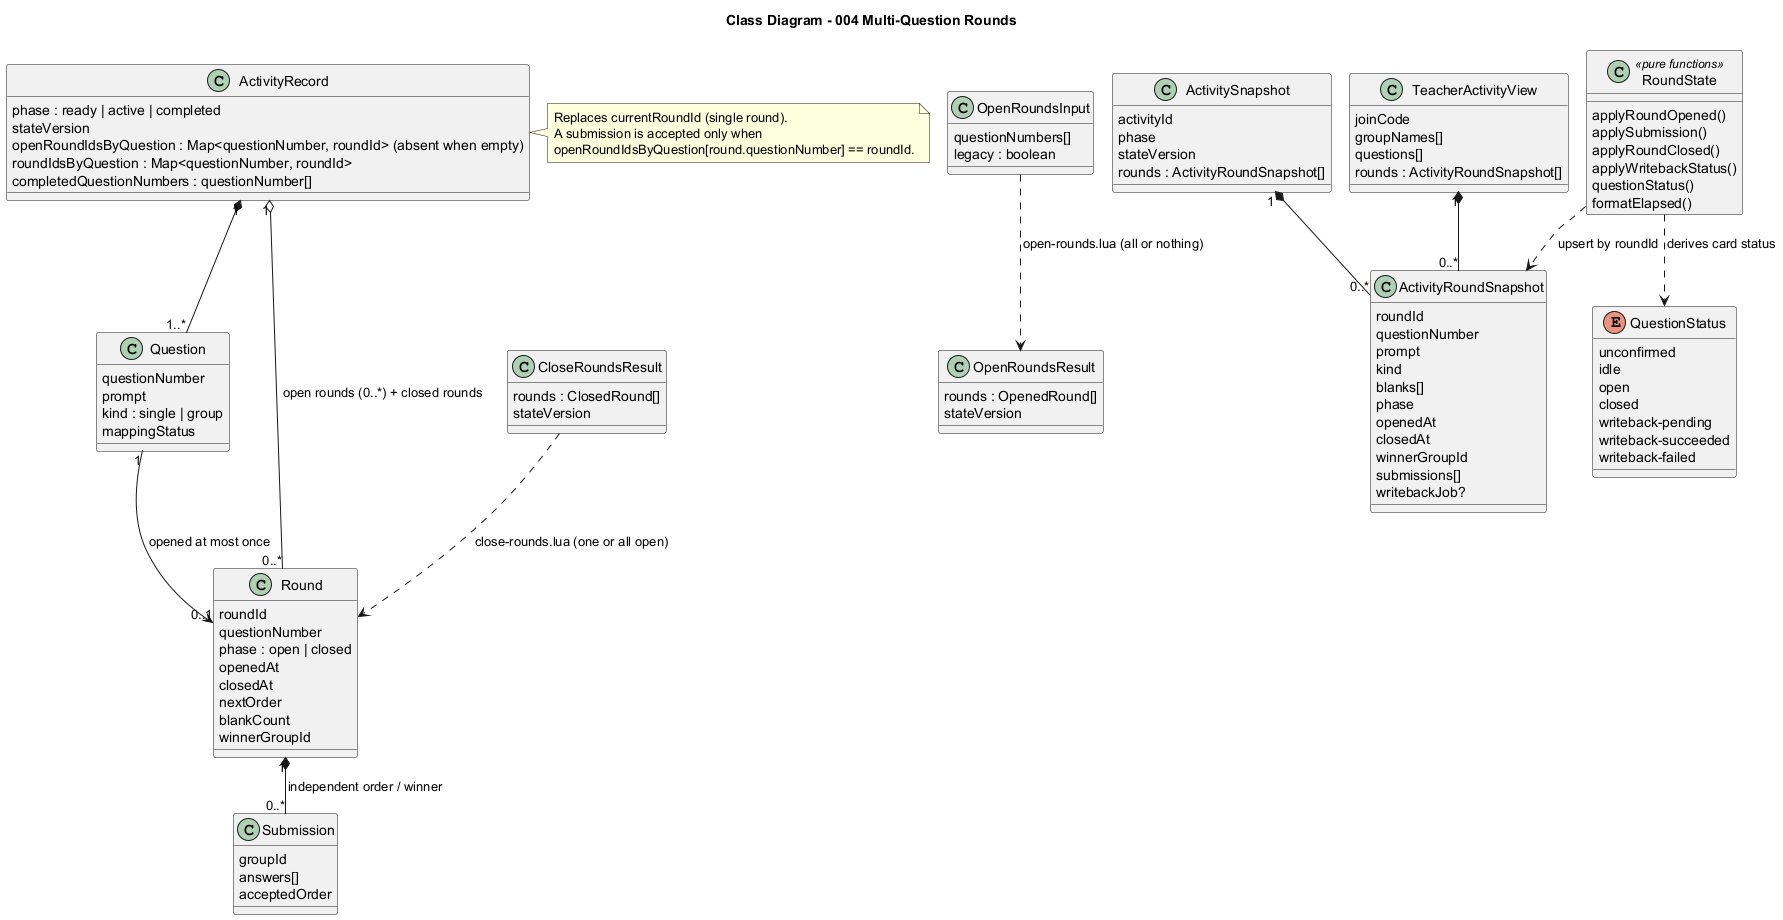
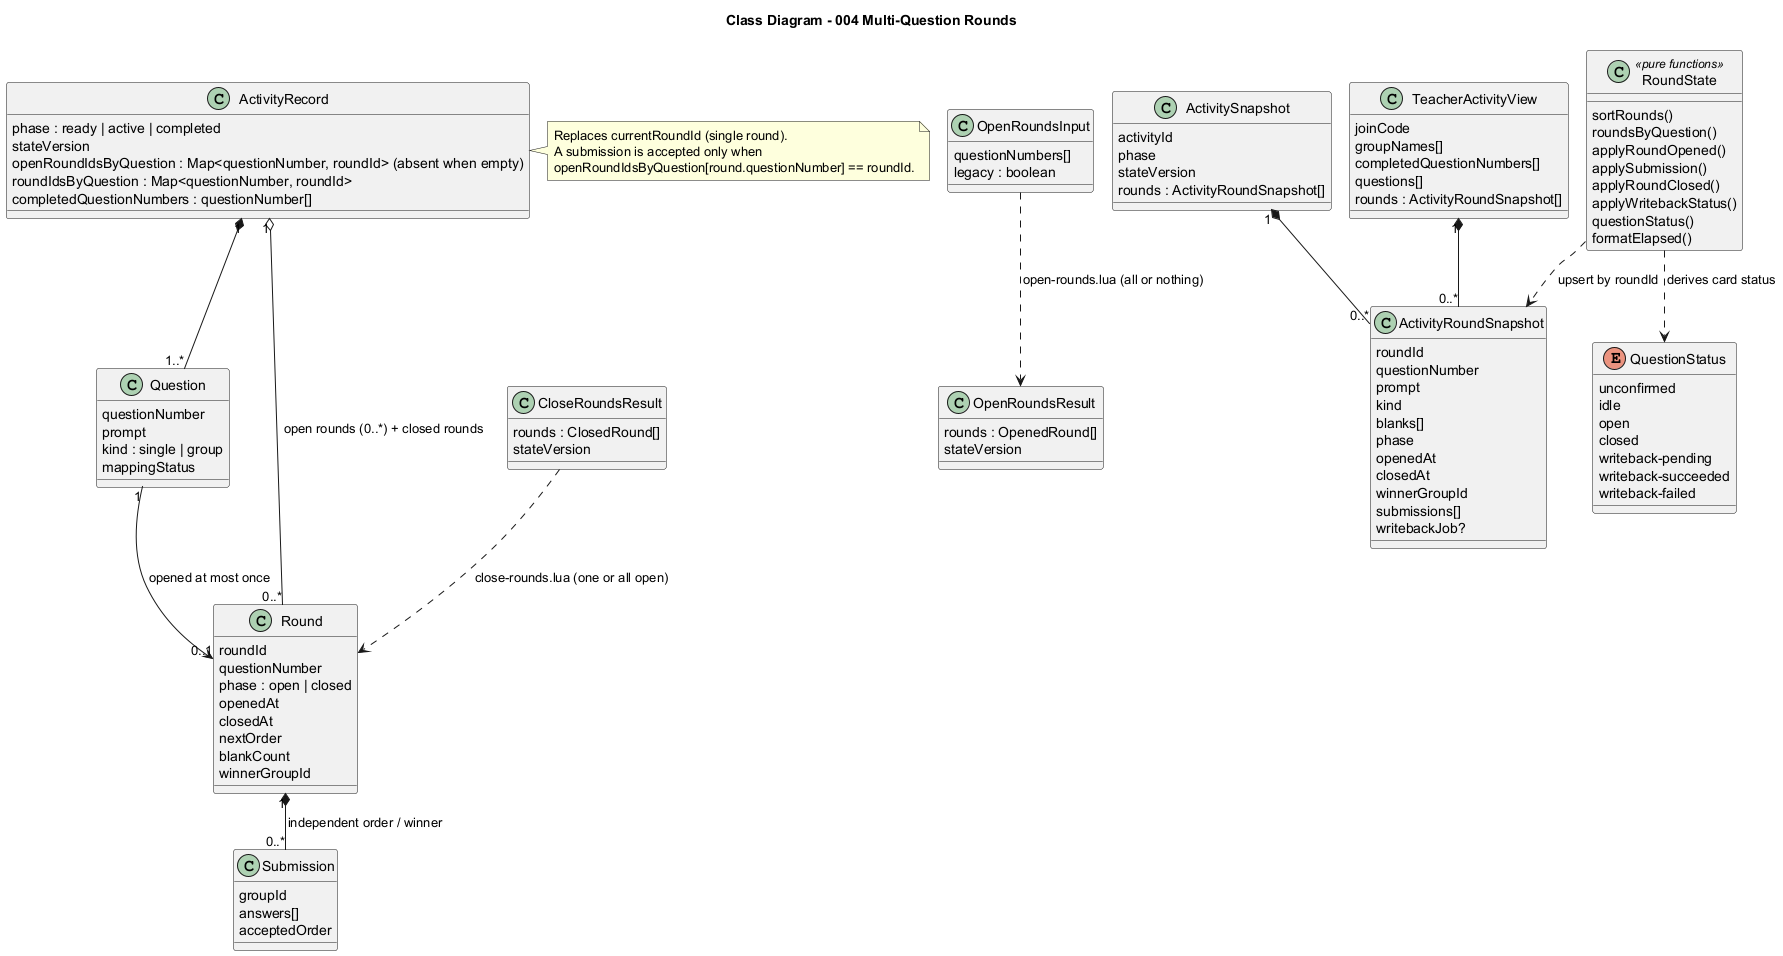
docs(004): record diagram alignment and verification results
Class diagram now lists every exported round-state helper and the
completedQuestionNumbers field of the teacher view; quickstart records
the code-to-diagram check (T030) and automated results (T029); all
tasks are marked done.

diff --git a/main/specs/004-multi-question-rounds/tasks.md b/main/specs/004-multi-question-rounds/tasks.md
@@ -17,17 +17,17 @@
 
 ## Phase 1: Setup
 
-- [ ] T001 Point SpecKit at the feature (`.specify/feature.json` → `specs/004-multi-question-rounds`), write spec/checklist/plan/research/data-model/contracts/quickstart, create `diagrams/004-component|class|sequence.puml`, update `diagrams/class.puml` and `diagrams/sequence.puml`, render all to PNG
+- [X] T001 Point SpecKit at the feature (`.specify/feature.json` → `specs/004-multi-question-rounds`), write spec/checklist/plan/research/data-model/contracts/quickstart, create `diagrams/004-component|class|sequence.puml`, update `diagrams/class.puml` and `diagrams/sequence.puml`, render all to PNG
 
 ---
 
 ## Phase 2: Foundational (blocking all stories)
 
-- [ ] T002 [P] Unit tests for the pure round-state module in `tests/unit/activities/round-state.test.ts` (open adds/sorts and is idempotent, submission upsert per round only, unknown round ignored, close sets final results, writeback status, `questionStatus` for every state, `formatElapsed`)
-- [ ] T003 [P] Unit tests for the open request schema in `tests/unit/validation/round-open-schema.test.ts` (array form, legacy form → `legacy: true`, empty / duplicate / non-numeric rejected)
-- [ ] T004 Add `openedAt` / `closedAt` to `ActivityRoundSnapshot` and replace `currentRound` with `rounds[]` in `src/features/activities/domain/snapshot.ts`
-- [ ] T005 Implement `src/features/activities/domain/round-state.ts` (make T002 pass)
-- [ ] T006 Change `roundOpenSchema` in `src/lib/validation/schemas.ts` to accept `{ questionNumbers[] }` or legacy `{ questionNumber }` (make T003 pass)
+- [X] T002 [P] Unit tests for the pure round-state module in `tests/unit/activities/round-state.test.ts` (open adds/sorts and is idempotent, submission upsert per round only, unknown round ignored, close sets final results, writeback status, `questionStatus` for every state, `formatElapsed`)
+- [X] T003 [P] Unit tests for the open request schema in `tests/unit/validation/round-open-schema.test.ts` (array form, legacy form → `legacy: true`, empty / duplicate / non-numeric rejected)
+- [X] T004 Add `openedAt` / `closedAt` to `ActivityRoundSnapshot` and replace `currentRound` with `rounds[]` in `src/features/activities/domain/snapshot.ts`
+- [X] T005 Implement `src/features/activities/domain/round-state.ts` (make T002 pass)
+- [X] T006 Change `roundOpenSchema` in `src/lib/validation/schemas.ts` to accept `{ questionNumbers[] }` or legacy `{ questionNumber }` (make T003 pass)
 
 **Checkpoint**: shared types, reducer and validation ready.
 
@@ -41,16 +41,16 @@
 
 ### Tests for User Story 1
 
-- [ ] T007 [P] [US1] Integration tests in `tests/integration/multi-round.test.ts` (unique ids): open Q1+Q2 in one call; open Q3 while Q1/Q2 open; all-or-nothing for already-open / completed / unconfirmed / unknown / duplicated question (nothing written, error names the question); close Q1 leaves Q2/Q3 open; close-all closes every open round in one call with one `results.finalized` per round; close-all with nothing open → 409; activity `completed` only after the last question closes; leftover `currentRoundId` removed; events have contiguous `stateVersion`
-- [ ] T008 [P] [US1] Migrate `tests/integration/round-atomicity.test.ts` to unique activity ids and the new store API (`openRounds`)
-- [ ] T009 [P] [US1] Contract tests in `tests/contract/rounds.test.ts`: array body → `{ rounds }`; legacy body → legacy single-round response; invalid bodies → 422; students cannot open / close / close-all; close-all uses the teacher identity
+- [X] T007 [P] [US1] Integration tests in `tests/integration/multi-round.test.ts` (unique ids): open Q1+Q2 in one call; open Q3 while Q1/Q2 open; all-or-nothing for already-open / completed / unconfirmed / unknown / duplicated question (nothing written, error names the question); close Q1 leaves Q2/Q3 open; close-all closes every open round in one call with one `results.finalized` per round; close-all with nothing open → 409; activity `completed` only after the last question closes; leftover `currentRoundId` removed; events have contiguous `stateVersion`
+- [X] T008 [P] [US1] Migrate `tests/integration/round-atomicity.test.ts` to unique activity ids and the new store API (`openRounds`)
+- [X] T009 [P] [US1] Contract tests in `tests/contract/rounds.test.ts`: array body → `{ rounds }`; legacy body → legacy single-round response; invalid bodies → 422; students cannot open / close / close-all; close-all uses the teacher identity
 
 ### Implementation for User Story 1
 
-- [ ] T010 [US1] Replace `open-round.lua` with `src/server/redis/scripts/open-rounds.lua` (validate all, then open all; one `phase.changed` per round; maintain `openRoundIdsByQuestion` / `roundIdsByQuestion`; drop `currentRoundId`)
-- [ ] T011 [US1] Replace `close-round.lua` with `src/server/redis/scripts/close-rounds.lua` (strict / open-only modes; one `results.finalized` per round; remove from open map, delete the map when empty; completion rule)
-- [ ] T012 [US1] Update `src/server/redis/round-store.ts`: `openRounds`, `closeRounds`, `closeRound`, `closeAllOpenRounds`, error messages naming the question
-- [ ] T013 [US1] Update `src/features/activities/application/round-service.ts`, `src/app/api/activities/[activityId]/rounds/open/route.ts` (array + legacy response) and add `src/app/api/activities/[activityId]/rounds/close-all/route.ts`
+- [X] T010 [US1] Replace `open-round.lua` with `src/server/redis/scripts/open-rounds.lua` (validate all, then open all; one `phase.changed` per round; maintain `openRoundIdsByQuestion` / `roundIdsByQuestion`; drop `currentRoundId`)
+- [X] T011 [US1] Replace `close-round.lua` with `src/server/redis/scripts/close-rounds.lua` (strict / open-only modes; one `results.finalized` per round; remove from open map, delete the map when empty; completion rule)
+- [X] T012 [US1] Update `src/server/redis/round-store.ts`: `openRounds`, `closeRounds`, `closeRound`, `closeAllOpenRounds`, error messages naming the question
+- [X] T013 [US1] Update `src/features/activities/application/round-service.ts`, `src/app/api/activities/[activityId]/rounds/open/route.ts` (array + legacy response) and add `src/app/api/activities/[activityId]/rounds/close-all/route.ts`
 
 **Checkpoint**: T007–T009 pass.
 
@@ -64,16 +64,16 @@
 
 ### Tests for User Story 2
 
-- [ ] T014 [P] [US2] Add to `tests/integration/multi-round.test.ts`: two groups answering two open rounds get independent orders/winners; after Q1 closes, a Q1 submission is rejected while a Q2 submission is accepted
-- [ ] T015 [P] [US2] Update `tests/integration/activity-events.test.ts`: snapshot `rounds[]` with one open and one closed round — student sees only own answer in the open round and all answers in the closed round; teacher sees all
-- [ ] T016 [P] [US2] Update the snapshot mock shape in `tests/contract/activity-events-replay.test.ts`
+- [X] T014 [P] [US2] Add to `tests/integration/multi-round.test.ts`: two groups answering two open rounds get independent orders/winners; after Q1 closes, a Q1 submission is rejected while a Q2 submission is accepted
+- [X] T015 [P] [US2] Update `tests/integration/activity-events.test.ts`: snapshot `rounds[]` with one open and one closed round — student sees only own answer in the open round and all answers in the closed round; teacher sees all
+- [X] T016 [P] [US2] Update the snapshot mock shape in `tests/contract/activity-events-replay.test.ts`
 
 ### Implementation for User Story 2
 
-- [ ] T017 [US2] `src/server/redis/scripts/submit-answer.lua`: accept the round only when `openRoundIdsByQuestion[round.questionNumber] == roundId`
-- [ ] T018 [US2] `src/features/activities/application/activity-snapshot.ts`: load every round of the activity into `rounds[]` (per-round visibility, teacher writeback job, `openedAt`/`closedAt`)
-- [ ] T019 [US2] Student UI: `src/components/student/student-api.ts` (events URL + submit in one place), rewrite `src/components/student/activity-round.tsx` (stacked open-question cards, per-round drafts/busy/errors, closed results), per-round field ids in `src/components/student/answer-form.tsx`
-- [ ] T020 [US2] Student card styles in `src/app/globals.css`
+- [X] T017 [US2] `src/server/redis/scripts/submit-answer.lua`: accept the round only when `openRoundIdsByQuestion[round.questionNumber] == roundId`
+- [X] T018 [US2] `src/features/activities/application/activity-snapshot.ts`: load every round of the activity into `rounds[]` (per-round visibility, teacher writeback job, `openedAt`/`closedAt`)
+- [X] T019 [US2] Student UI: `src/components/student/student-api.ts` (events URL + submit in one place), rewrite `src/components/student/activity-round.tsx` (stacked open-question cards, per-round drafts/busy/errors, closed results), per-round field ids in `src/components/student/answer-form.tsx`
+- [X] T020 [US2] Student card styles in `src/app/globals.css`
 
 **Checkpoint**: T014–T016 pass.
 
@@ -87,15 +87,15 @@
 
 ### Tests for User Story 3
 
-- [ ] T021 [P] [US3] Add to `tests/integration/writeback-queue.test.ts`: a `failed` job is re-queued with the same id (`status=queued`, `attempt=0`, no error code, new stream entry); `queued` / `succeeded` jobs stay idempotent
+- [X] T021 [P] [US3] Add to `tests/integration/writeback-queue.test.ts`: a `failed` job is re-queued with the same id (`status=queued`, `attempt=0`, no error code, new stream entry); `queued` / `succeeded` jobs stay idempotent
 
 ### Implementation for User Story 3
 
-- [ ] T022 [US3] `src/server/redis/scripts/enqueue-writeback.lua`: re-queue when the existing job failed
-- [ ] T023 [US3] `src/features/activities/application/teacher-activity.ts`: return `rounds[]` (merge `currentRound` / `completedRounds`)
-- [ ] T024 [US3] Rewrite `src/components/teacher/round-control.tsx` as the question board (toolbar, selectable cards, live ranking, close one / all, writeback + retry, elapsed timer, no `<select>`)
-- [ ] T025 [US3] Board, card and badge styles in `src/app/globals.css` (wrapping prompts, sticky toolbar, 360px layout); remove styles only used by the old dropdown panel
-- [ ] T026 [US3] Teacher page copy in `src/app/(teacher)/teacher/activities/[activityId]/page.tsx`
+- [X] T022 [US3] `src/server/redis/scripts/enqueue-writeback.lua`: re-queue when the existing job failed
+- [X] T023 [US3] `src/features/activities/application/teacher-activity.ts`: return `rounds[]` (merge `currentRound` / `completedRounds`)
+- [X] T024 [US3] Rewrite `src/components/teacher/round-control.tsx` as the question board (toolbar, selectable cards, live ranking, close one / all, writeback + retry, elapsed timer, no `<select>`)
+- [X] T025 [US3] Board, card and badge styles in `src/app/globals.css` (wrapping prompts, sticky toolbar, 360px layout); remove styles only used by the old dropdown panel
+- [X] T026 [US3] Teacher page copy in `src/app/(teacher)/teacher/activities/[activityId]/page.tsx`
 
 **Checkpoint**: T021 passes; teacher board renders every status.
 
@@ -103,10 +103,10 @@
 
 ## Phase 6: Polish & Cross-Cutting
 
-- [ ] T027 [P] Update `tests/e2e/sheets-writeback.spec.ts` for the card UI (checkbox + 開放所選題目) and add a multi-question flow (open Q1+Q2, groups answer different questions, close all). Not executable locally (no Playwright browsers)
-- [ ] T028 [P] Remove the obsolete `currentRoundId` seed field from `tests/load/activity-sse.test.ts`
-- [ ] T029 Run `pnpm typecheck`, `pnpm lint`, `pnpm test:unit`, `pnpm test:contract`, `pnpm test:security`, `pnpm test:integration`, `pnpm exec vitest run tests/architecture`
-- [ ] T030 Verify the implementation against `diagrams/004-*.puml`, `class.puml`, `sequence.puml` and record the result in `quickstart.md`
+- [X] T027 [P] Update `tests/e2e/sheets-writeback.spec.ts` for the card UI (checkbox + 開放所選題目) and add a multi-question flow (open Q1+Q2, groups answer different questions, close all). Not executable locally (no Playwright browsers)
+- [X] T028 [P] Remove the obsolete `currentRoundId` seed field from `tests/load/activity-sse.test.ts`
+- [X] T029 Run `pnpm typecheck`, `pnpm lint`, `pnpm test:unit`, `pnpm test:contract`, `pnpm test:security`, `pnpm test:integration`, `pnpm exec vitest run tests/architecture`
+- [X] T030 Verify the implementation against `diagrams/004-*.puml`, `class.puml`, `sequence.puml` and record the result in `quickstart.md`
 
 ---
 

diff --git a/main/specs/004-multi-question-rounds/quickstart.md b/main/specs/004-multi-question-rounds/quickstart.md
@@ -45,3 +45,42 @@ pnpm lint && pnpm typecheck
 ## 預期結果
 
 所有自動化檢查通過；A–D 情境全部符合預期。
+
+## Diagram alignment verification (T030, 2026-11-25)
+
+逐一核對 `diagrams/004-component.puml`、`004-class.puml`、`004-sequence.puml` 與更新後的 `class.puml`、`sequence.puml`：
+
+| 圖表元素 | 實作位置 | 結果 |
+|---|---|---|
+| Teacher Question Board（卡片清單＋固定工具列、無下拉選單） | `src/components/teacher/round-control.tsx`、`globals.css`（`.question-board*`、`.question-card*`、`.status-badge*`） | 一致 |
+| Student Open Questions（每個開放回合一張卡片＋已公布結果） | `src/components/student/activity-round.tsx`、`answer-form.tsx`（`fieldIdPrefix`） | 一致 |
+| Round State Reducer（兩端共用純函式） | `src/features/activities/domain/round-state.ts`：`sortRounds`、`roundsByQuestion`、`applyRoundOpened`、`applySubmission`、`applyRoundClosed`、`applyWritebackStatus`、`questionStatus`、`formatElapsed` | 一致（類別圖已補上 `sortRounds`／`roundsByQuestion`） |
+| Student API Client（events URL＋submit 集中一處） | `src/components/student/student-api.ts` | 一致 |
+| Open Route `{questionNumbers[]} \| {questionNumber}` | `rounds/open/route.ts`＋`roundOpenSchema`（`legacy` 決定回應格式） | 一致 |
+| Close Route / Close-All Route | `rounds/[roundId]/close/route.ts`（不變）、`rounds/close-all/route.ts`（新增） | 一致 |
+| Writeback Route（失敗可重新排入） | `enqueue-writeback.lua`（`failed` 時以同一 jobId 重排） | 一致 |
+| Round Service / Round Store (Lua) | `round-service.ts`；`round-store.ts`：`openRounds`、`submitAnswer`、`closeRound`、`closeAllOpenRounds`；`open-rounds.lua`、`submit-answer.lua`、`close-rounds.lua` | 一致 |
+| Activity Snapshot `rounds[]` | `activity-snapshot.ts`（逐回合可見性、教師回填狀態、`openedAt`/`closedAt`）、`teacher-activity.ts` | 一致 |
+| Activity SSE + Projection（逐回合隱私） | `events/route.ts`、`activity-event-projection.ts`（未變更，事件皆帶 `roundId`） | 一致 |
+| Class：`ActivityRecord.openRoundIdsByQuestion`（空時移除）、`Round`、`Submission`、`OpenRoundsInput`／`OpenRoundsResult`／`CloseRoundsResult`、`ActivitySnapshot.rounds`、`ActivityRoundSnapshot.openedAt/closedAt`、`TeacherActivityView`、`QuestionStatus` | Lua 腳本、`round-store.ts` 型別、`snapshot.ts`、`types.ts`、`round-state.ts` | 一致 |
+| Sequence：多題原子開放（錯誤指出題號、全部不開）→ 每回合一個 `phase.changed` → 各題獨立受理（open map 檢查）→ 加開 → 單題結束（strict）→ 已結束題目遲到答案 409、其他題照常 → 一次結束（讀取 open map 後 open-only）→ 全部結束才 completed → 逐題回填／失敗重排 | 程式流程與 `tests/integration/multi-round.test.ts`、`writeback-queue.test.ts` | 一致 |
+| 共用 `class.puml`（Activity.openRoundIdsByQuestion、每題至多一個回合）／`sequence.puml`（多題開放、單題或全部結束、失敗回填重排） | 同上 | 一致 |
+
+未發現其他不一致。
+
+## Automated verification results (T029, 2026-11-25)
+
+| 指令 | 結果 |
+|---|---|
+| `pnpm typecheck` | ✅ |
+| `pnpm lint` | ✅ |
+| `pnpm test:unit` | ✅ 8 files / 56 tests |
+| `pnpm test:contract` | ✅ 9 files / 39 tests |
+| `pnpm test:security` | ✅ 1 file / 2 tests |
+| `pnpm test:integration`（本機 Redis） | ✅ 6 files / 44 tests |
+| `pnpm exec vitest run tests/architecture` | ✅ 1 file / 2 tests |
+| `pnpm test:load` | ✅ 1 file / 1 test |
+| SSR smoke（私有連接埠 3014、種入 2 題開放＋1 題已結束＋1 題未確認＋1 題未開放） | ✅ 教師頁無 `<select>`、只有未開放題目有勾選框、兩張開放卡片有即時排名、長題目完整輸出、已結束卡片有得獎組別與回填；學生頁兩張開放卡片、欄位 id 不重複、只看到自己組答案、已公布結果完整 |
+
+- `tests/e2e/sheets-writeback.spec.ts` 已更新（卡片勾選＋「開放所選題目」，新增多題同時開放／一次結束情境），但本機未安裝 Playwright 瀏覽器，尚未執行。
+- 人工驗證情境 A–D 需在合併 003（同一瀏覽器多分頁身分）後，以真實 Google 試算表執行。
